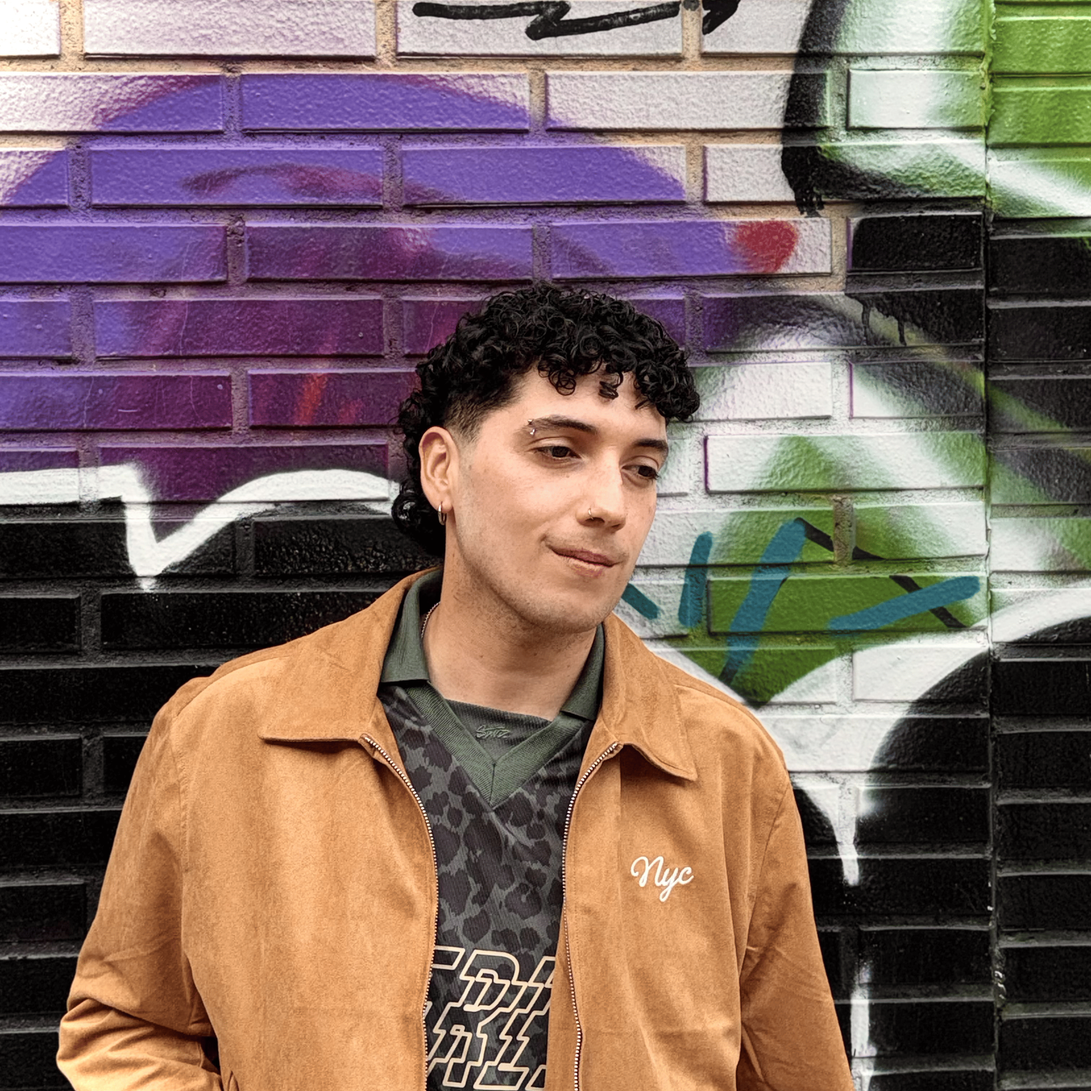
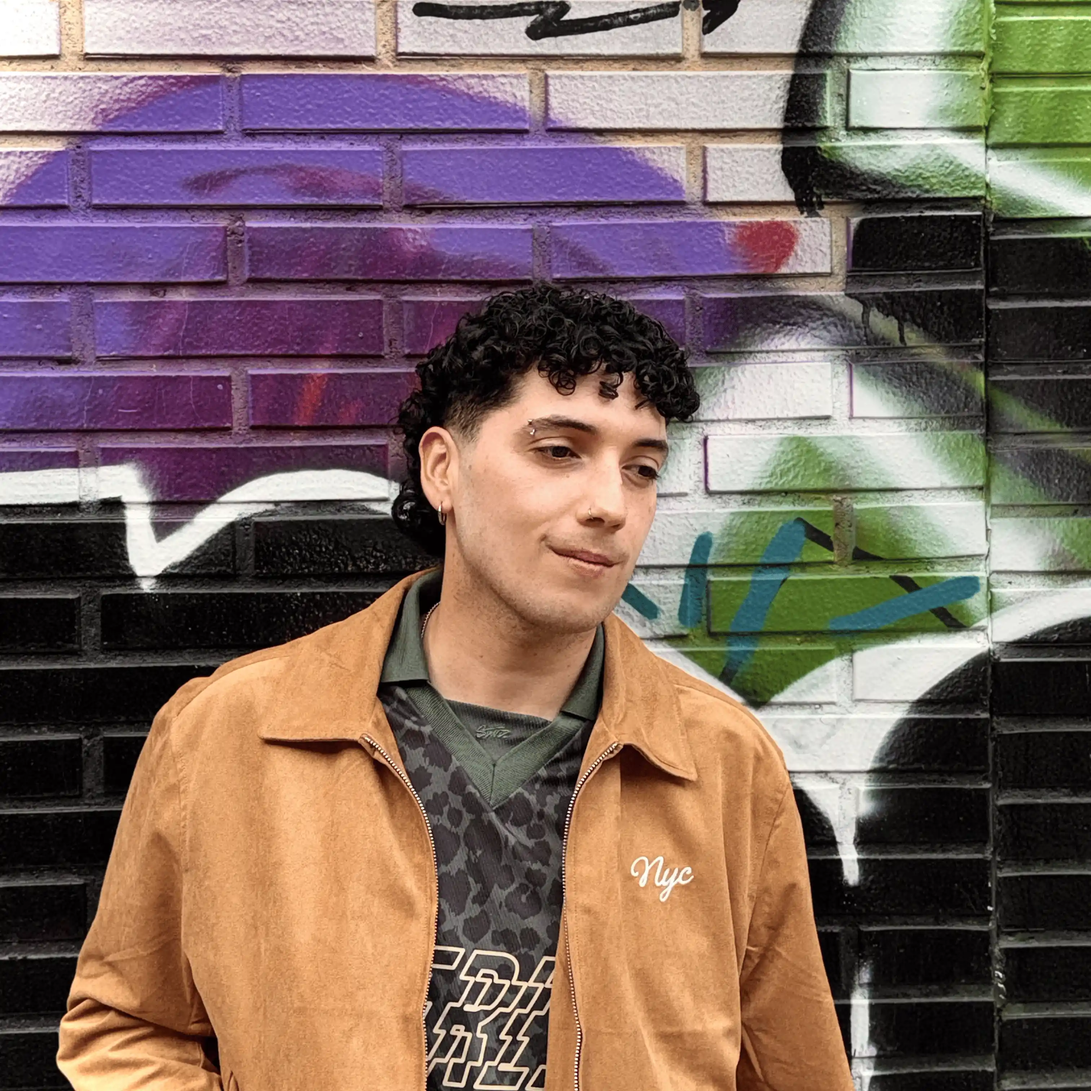
commit

diff --git a/proyectos.html b/proyectos.html
@@ -36,42 +36,42 @@
         <div class="projects-page__grid">
 
             <a href="#" class="projects-page__card">
-                <img src="media/image1.jpg" alt="proyecto__01">
+                <img src="media/WEBP/image-1.webp" alt="proyecto__01">
                 <div class="projects-page__overlay">
                     <h2>proyecto__01</h2>
                 </div>
             </a>
 
             <a href="#" class="projects-page__card">
-                <img src="media/image2.jpg" alt="Proyecto__02">
+                <img src="media/WEBP/image-2.webp" alt="Proyecto__02">
                 <div class="projects-page__overlay">
                     <h2>Proyecto__02</h2>
                 </div>
             </a>
 
             <a href="#" class="projects-page__card">
-                <img src="media/image3.jpg" alt="Proyecto__03">
+                <img src="media/WEBP/image-3.webp" alt="Proyecto__03">
                 <div class="projects-page__overlay">
                     <h2>Proyecto__03</h2>
                 </div>
             </a>
 
             <a href="#" class="projects-page__card">
-                <img src="media/image4.jpg" alt="Proyecto__04">
+                <img src="media/WEBP/image-4.webp" alt="Proyecto__04">
                 <div class="projects-page__overlay">
                     <h2>Proyecto__04</h2>
                 </div>
             </a>
 
             <a href="#" class="projects-page__card">
-                <img src="media/image5.jpg" alt="Proyecto__05">
+                <img src="media/WEBP/image-5.webp" alt="Proyecto__05">
                 <div class="projects-page__overlay">
                     <h2>Proyecto__05</h2>
                 </div>
             </a>
 
             <a href="#" class="projects-page__card">
-                <img src="media/image6.jpg" alt="Proyecto__06">
+                <img src="media/WEBP/image-6.webp" alt="Proyecto__06">
                 <div class="projects-page__overlay">
                     <h2>Proyecto__06</h2>
                 </div>

diff --git a/index.html b/index.html
@@ -60,7 +60,7 @@
             <a href="proyectos.html" class="project-cards">
 
                 <div class="project-cards__image">
-                    <img src="media/image1.jpg" alt="Proyecto 1">
+                    <img src="media/WEBP/image-1.webp" alt="Proyecto 1">
                 </div>
 
                 <div class="project-cards__info">
@@ -78,7 +78,7 @@
             <a href="proyectos.html" class="project-cards">
 
                 <div class="project-cards__image">
-                    <img src="media/image2.jpg" alt="Proyecto 2">
+                    <img src="media/WEBP/image-2.webp" alt="Proyecto 2">
                 </div>
 
                 <div class="project-cards__info">
@@ -96,7 +96,7 @@
             <a href="proyectos.html" class="project-cards">
 
                 <div class="project-cards__image">
-                    <img src="media/image3.jpg" alt="Proyecto 3">
+                    <img src="media/WEBP/image-3.webp" alt="Proyecto 3">
                 </div>
 
                 <div class="project-cards__info">
@@ -124,7 +124,7 @@
             <div class="about__content">
 
                 <div class="about__image">
-                    <img src="media/Foto-perfil.png" alt="Fotografía">
+                    <img src="media/WEBP/foto-perfil.webp" alt="Fotografía">
                 </div>
 
                 <div class="about__text">

diff --git a/js/index.js b/js/index.js
@@ -6,25 +6,25 @@ if (heroCarousel) {
     const slides = [
         {
             nombre: 'Proyecto 1',
-            image: './media/WEBP/image1.webp',
+            image: './media/WEBP/image-1.webp',
             href: './proyectos.html',
             cursor: './media/GIFs/gif1.gif'
         },
         {
             nombre: 'Proyecto 2',
-            image: './media/WEBP/image2.webp',
+            image: './media/WEBP/image-2.webp',
             href: './proyectos.html',
             cursor: './media/GIFs/gif2.gif'
         },
         {
             nombre: 'Proyecto 3',
-            image: './media/WEBP/image3.webp',
+            image: './media/WEBP/image-3.webp',
             href: './proyectos.html',
             cursor: './media/GIFs/gif3.gif'
         },
         {
             nombre: 'Proyecto 4',
-            image: './media/WEBP/image4.webp',
+            image: './media/WEBP/image-4.webp',
             href: './proyectos.html',
             cursor: './media/GIFs/gif4.gif'
         }
